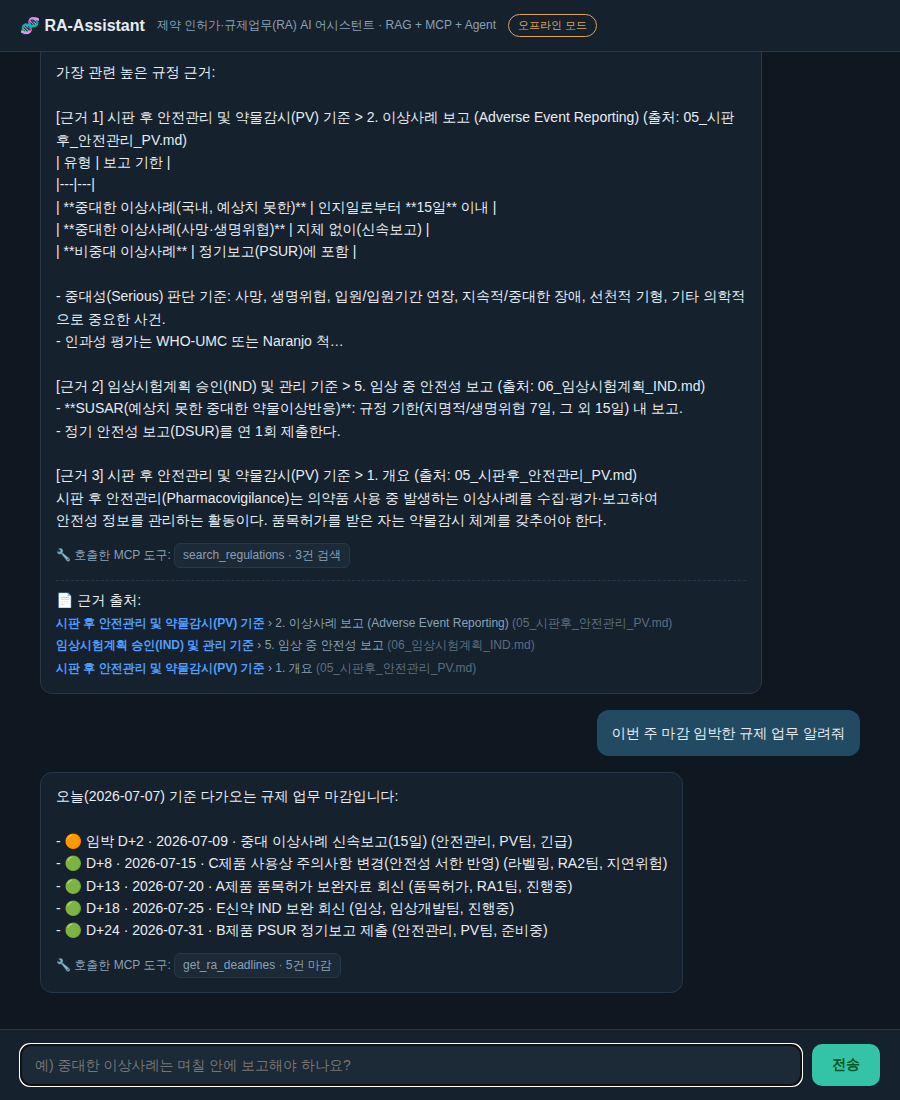
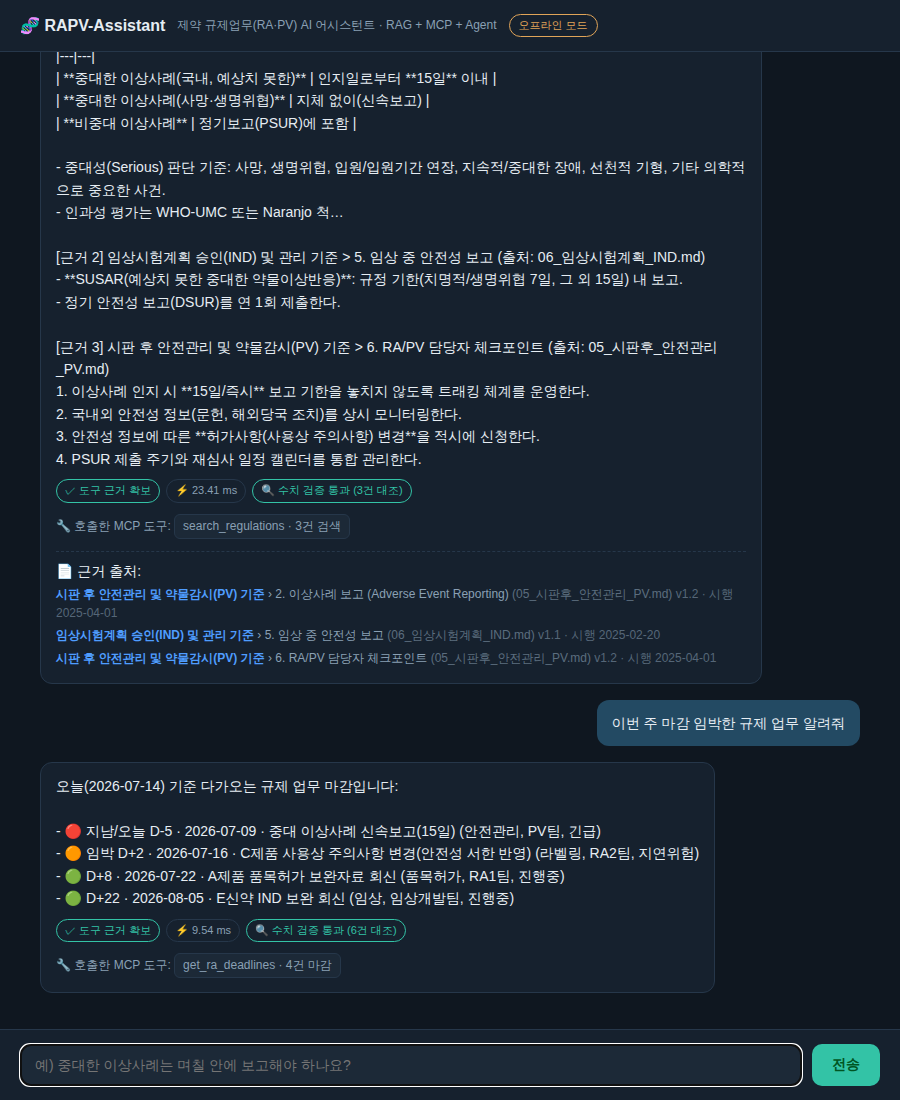
chore: 제품명 변경(RAPV-Assistant) 마무리 — 이미지 재렌더·로거·아카이브 원복
- docs/architecture.png: SVG 는 이름변경 커밋에서 갱신됐으나 래스터본이 구명칭
  그대로였던 것을 SVG 기준으로 재렌더(2120x2280 동일 규격)
- docs/demo.png: 구명칭 헤더·RA 단독 부제가 남은 스크린샷을 현행 UI
  (RAPV-Assistant · RA·PV 부제·검증 배지 포함)로 재촬영
- src/observability.py: 로거 이름 ra_assistant → rapv_assistant
- 직접작성/경력기술서_2.md: AS-IS 아카이브 섹션 2건을 구명칭(RA-Assistant)으로
  원복 — CLAUDE.md 의 '보관용 수정 금지' 규칙 준수. 특히 구버전 문구(RA 단독
  시절)와 새 이름(RA+PV)이 충돌하던 자기모순 해소. 현행 섹션은 새 이름 유지

Claude-Session: https://claude.ai/code/session_01AELt6hLDahFhgtyGgbrQYn

diff --git a/project/src/observability.py b/project/src/observability.py
@@ -12,7 +12,7 @@ import time
 from contextlib import contextmanager
 from dataclasses import dataclass, field
 
-logger = logging.getLogger("ra_assistant")
+logger = logging.getLogger("rapv_assistant")
 if not logger.handlers:
     _h = logging.StreamHandler()
     _h.setFormatter(logging.Formatter("%(asctime)s %(levelname)s %(message)s"))

diff --git a/직접작성/경력기술서_2.md b/직접작성/경력기술서_2.md
@@ -311,7 +311,7 @@ Python, FastAPI, Pydantic, FastMCP, Anthropic Claude API / RAG 파이프라인·
 > 개인 프로젝트 항목 원문이다.
 
 【개인 프로젝트】
-RAPV-Assistant — 제약 규제업무(RA·PV) 담당자를 위한 RAG + MCP 에이전트 데모 (기간: 2026 | 개인 프로젝트 | 기여도 100%)
+RA-Assistant — 제약 규제업무(RA·PV) 담당자를 위한 RAG + MCP 에이전트 데모 (기간: 2026 | 개인 프로젝트 | 기여도 100%)
 [개요]
 제약 RA(인허가/규제)·PV(약물감시) 담당자가 규제문서 검색, 제출 기한 관리, 이상사례 케이스 처리에 반복적으로 시간을 쓰는 상황을 가정하고, 근거·출처와 함께 답하는 RAG 검색과 업무 도구를 호출하는 에이전트를 결합한 어시스턴트 데모를 만든 개인 프로젝트입니다. 지원 직무에 필요한 기술(RAG, Agentic Workflow, Function Calling, MCP, FastAPI)을 학습하며 실제 작동하는 형태로 구현했습니다.
 
@@ -328,7 +328,7 @@ RAPV-Assistant — 제약 규제업무(RA·PV) 담당자를 위한 RAG + MCP 에
 ## 🗂 AS-IS (기존 내용 보관 — project 데모 변경 반영 전)
 
 【개인 프로젝트】
-RAPV-Assistant — 제약 규제업무(RA) 담당자를 위한 RAG + MCP 에이전트 데모 (기간: 2026 | 개인 프로젝트 | 기여도 100%)
+RA-Assistant — 제약 규제업무(RA) 담당자를 위한 RAG + MCP 에이전트 데모 (기간: 2026 | 개인 프로젝트 | 기여도 100%)
 [개요]
 제약 RA(인허가/규제) 담당자가 규제문서 검색과 제출 기한 관리에 반복적으로 시간을 쓰는 상황을 가정하고, 근거·출처와 함께 답하는 RAG 검색과 업무 도구를 호출하는 에이전트를 결합한 어시스턴트 데모를 만든 개인 프로젝트입니다. 지원 직무에 필요한 기술(RAG, Agentic Workflow, Function Calling, MCP, FastAPI)을 학습하며 실제 작동하는 형태로 구현했습니다.
 